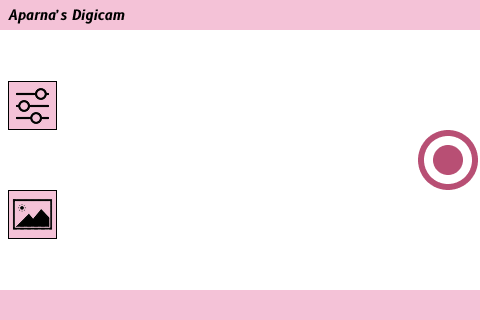
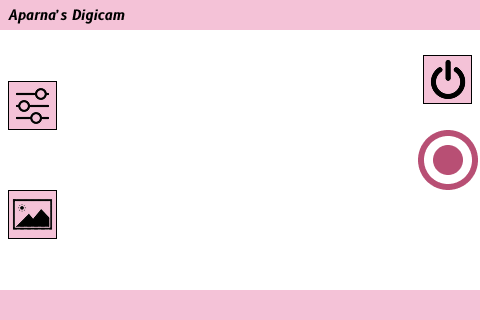
Add shutdown confirmation screen

Changed region(s): [[0.875, 0.1562, 1.0, 0.3438]]

diff --git a/controller.py b/controller.py
@@ -13,6 +13,9 @@ from config import (
     RESTORE_BOX,
     DELETE_FOREVER_BOX,
     FILTERS,
+    SHUTDOWN_BOX,
+    SHUTDOWN_CONFIRM_POWER_BOX,
+    SHUTDOWN_CONFIRM_CANCEL_BOX,
 )
 from filters import apply_filter
 from gallery import (
@@ -29,6 +32,9 @@ from gallery import get_photos, delete_photo
 from config import SHARE_BOX, SHARE_BACK_BOX
 from share_server import start_share_server
 from ui import draw_camera, draw_gallery, draw_share_screen
+from config import SHUTDOWN_BOX
+from ui import draw_shutdown_confirm, draw_shutdown_splash
+from systems_control import shutdown_pi
 
 
 class DigicamController:
@@ -56,6 +62,9 @@ class DigicamController:
 
             elif self.mode == "share":
                 self.update_share_mode(touch)
+            
+            elif self.mode == "shutdown_confirm":
+                self.update_shutdown_confirm_mode(touch)
 
             time.sleep(0.05)
 
@@ -70,7 +79,11 @@ class DigicamController:
         lx, ly = touch
         print(f"touch landscape: x={lx}, y={ly}")
 
-        if in_box(lx, ly, CAPTURE_BOX):
+        if in_box(lx, ly, SHUTDOWN_BOX):
+            self.mode = "shutdown_confirm"
+            draw_shutdown_confirm()
+            time.sleep(0.5)
+        elif in_box(lx, ly, CAPTURE_BOX):
             self.handle_capture(filtered_frame)
 
         elif in_box(lx, ly, GALLERY_BOX):
@@ -290,3 +303,19 @@ class DigicamController:
                 draw_gallery(self.photo_paths, self.gallery_index)
 
             time.sleep(0.5)
+    
+    def update_shutdown_confirm_mode(self, touch):
+        if not touch:
+            return
+
+        lx, ly = touch
+        print(f"shutdown touch: x={lx}, y={ly}")
+
+        if in_box(lx, ly, SHUTDOWN_CONFIRM_CANCEL_BOX):
+            self.mode = "camera"
+            time.sleep(0.5)
+
+        elif in_box(lx, ly, SHUTDOWN_CONFIRM_POWER_BOX):
+            draw_shutdown_splash("Goodbye!")
+            time.sleep(1.0)
+            shutdown_pi()

diff --git a/config.py b/config.py
@@ -59,3 +59,10 @@ SHARE_BACK_BOX = (0, 0, 80, 30)
 
 TRANSFER_URL = "http://192.168.4.1:8000"
 TRANSFER_PORT = 8000
+
+SHUTDOWN_UI_BG = PROJECT_ROOT / "assets" / "ui" / "shutdown_screen.png"
+
+SHUTDOWN_BOX = (422, 55, 472, 105)
+
+SHUTDOWN_CONFIRM_POWER_BOX = (270, 190, 410, 240)
+SHUTDOWN_CONFIRM_CANCEL_BOX = (70, 190, 210, 240)

diff --git a/ui/__init__.py b/ui/__init__.py
@@ -2,3 +2,4 @@ from ui.camera_screen import draw_camera
 from ui.gallery_screen import draw_gallery
 from ui.splash_screen import draw_splash, draw_shutdown_splash
 from ui.share_screen import draw_share_screen
+from ui.shutdown_screen import draw_shutdown_confirm

diff --git a/ui/shutdown_screen.py b/ui/shutdown_screen.py
@@ -1,0 +1,11 @@
+from PIL import Image
+
+from config import PROJECT_ROOT
+from ui.common import render
+
+from config import SHUTDOWN_UI_BG
+
+
+def draw_shutdown_confirm():
+    image = Image.open(SHUTDOWN_UI_BG).convert("RGB")
+    render(image)

diff --git a/systems_control.py b/systems_control.py
@@ -1,0 +1,5 @@
+import subprocess
+
+
+def shutdown_pi():
+    subprocess.run(["sudo", "/sbin/shutdown", "now"])
